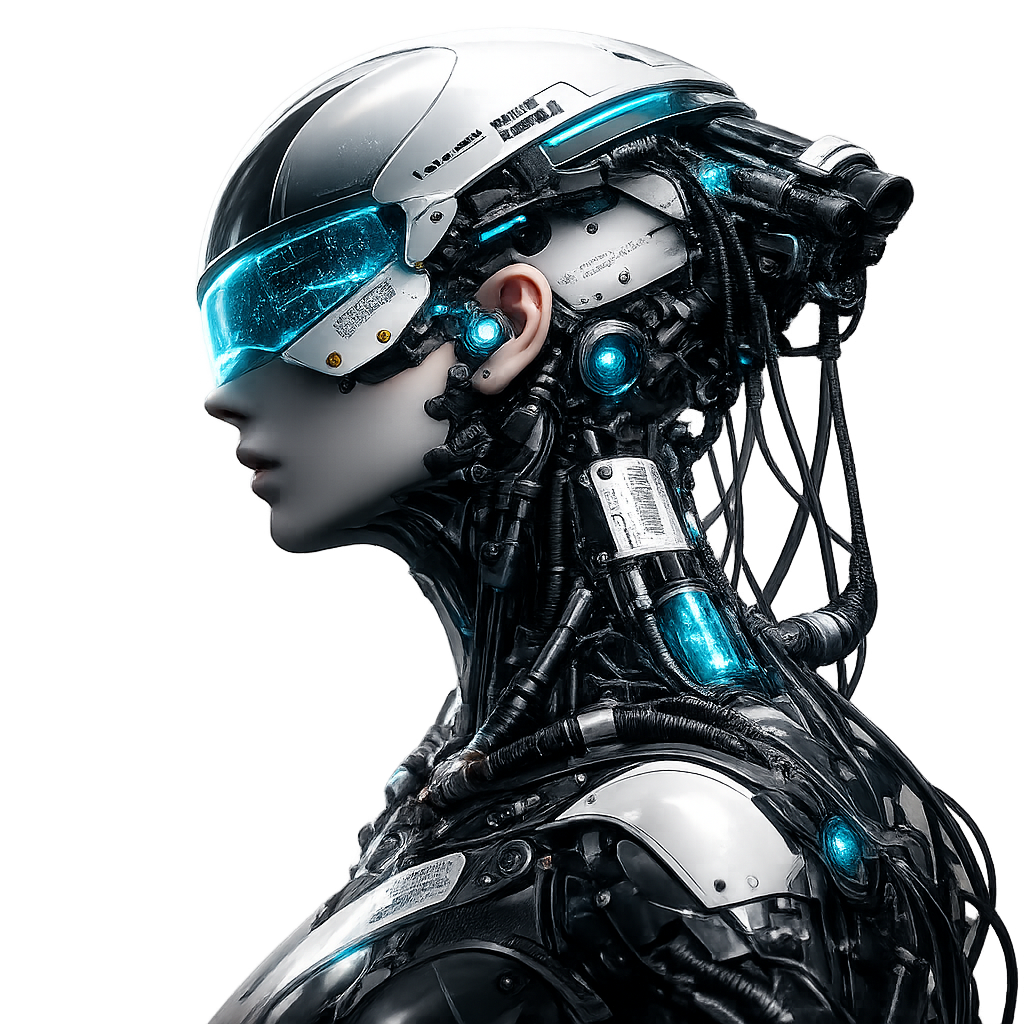
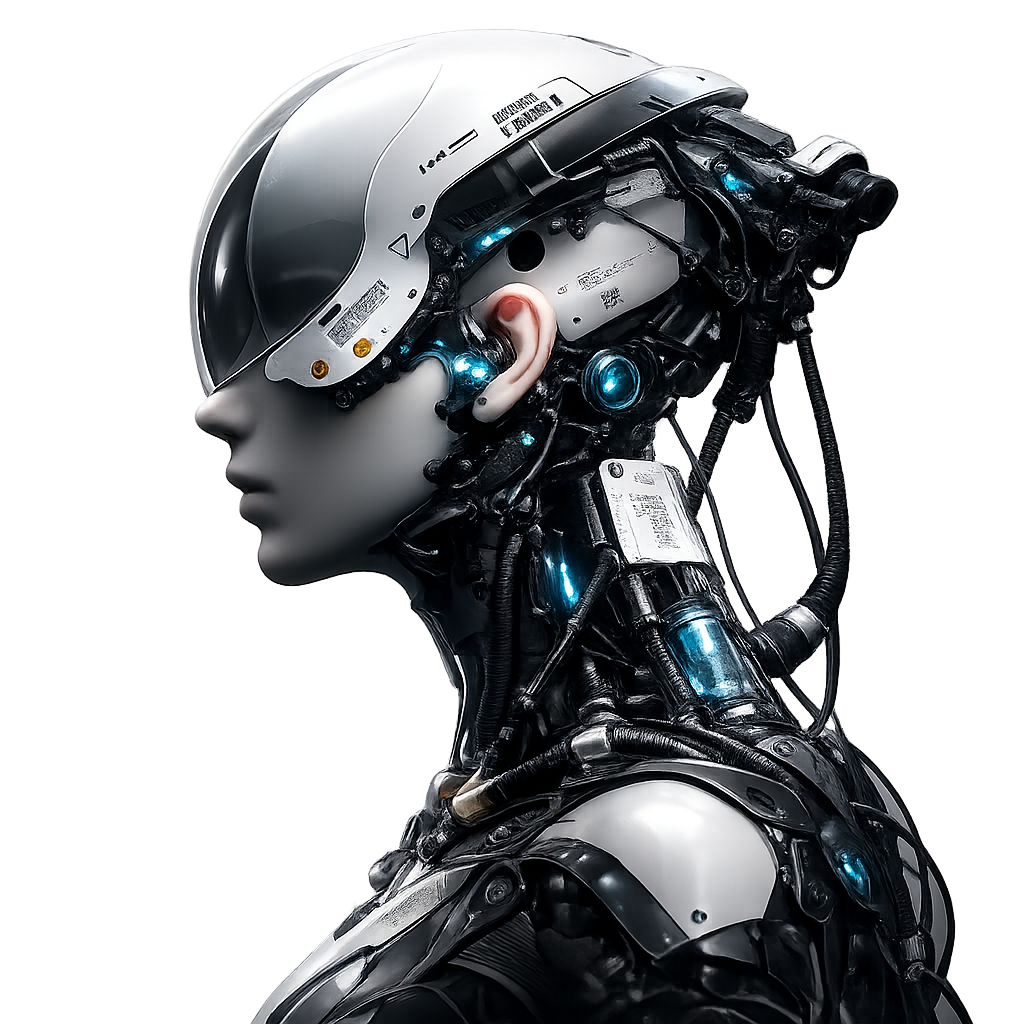
Update hero section animations, links, and various frontend tweaks

diff --git a/src/app/programs/[id]/ProgramDetailsClient.tsx b/src/app/programs/[id]/ProgramDetailsClient.tsx
@@ -1,7 +1,7 @@
 "use client";
 
 import { motion } from "framer-motion";
-import { ArrowLeft, Calendar, PlaySquare, CheckCircle2, Trophy, Clock, Check } from "lucide-react";
+import { ArrowLeft, Calendar, PlaySquare, CheckCircle2, Trophy, Clock, Check, AlertCircle, X } from "lucide-react";
 import { Button } from "@/components/ui/button";
 import { Badge } from "@/components/ui/badge";
 import Link from "next/link";
@@ -17,8 +17,10 @@ interface ProgramDetailsClientProps {
 export function ProgramDetailsClient({ program }: ProgramDetailsClientProps) {
   const router = useRouter();
   const [isEnrolled, setIsEnrolled] = useState(false);
+  const [enrolledProgramId, setEnrolledProgramId] = useState<string | null>(null);
+  const [showAlreadyEnrolledModal, setShowAlreadyEnrolledModal] = useState(false);
 
-  // Check if student is already enrolled in this internship
+  // Check if student is already enrolled in this internship or any other
   useEffect(() => {
     async function checkEnrollment() {
       const supabase = createClient();
@@ -26,11 +28,17 @@ export function ProgramDetailsClient({ program }: ProgramDetailsClientProps) {
       if (!user) return;
       const { data } = await supabase
         .from("student_enrollments")
-        .select("id")
+        .select("internship_id")
         .eq("student_id", user.id)
-        .eq("internship_id", program.id)
+        .limit(1)
         .single();
-      if (data) setIsEnrolled(true);
+        
+      if (data) {
+        setEnrolledProgramId(data.internship_id);
+        if (data.internship_id === program.id) {
+          setIsEnrolled(true);
+        }
+      }
     }
     checkEnrollment();
   }, [program.id]);
@@ -38,6 +46,11 @@ export function ProgramDetailsClient({ program }: ProgramDetailsClientProps) {
   const handleEnroll = async () => {
     if (isEnrolled) {
       router.push("/student/courses");
+      return;
+    }
+
+    if (enrolledProgramId && enrolledProgramId !== program.id) {
+      setShowAlreadyEnrolledModal(true);
       return;
     }
 
@@ -256,6 +269,52 @@ export function ProgramDetailsClient({ program }: ProgramDetailsClientProps) {
 
         </div>
       </div>
+
+      {/* Already Enrolled Modal */}
+      {showAlreadyEnrolledModal && (
+        <div className="fixed inset-0 z-50 flex items-center justify-center p-4 bg-background/80 backdrop-blur-md">
+          <motion.div 
+            initial={{ opacity: 0, scale: 0.95, y: 20 }}
+            animate={{ opacity: 1, scale: 1, y: 0 }}
+            exit={{ opacity: 0, scale: 0.95, y: 20 }}
+            className="relative w-full max-w-md overflow-hidden bg-card border border-border shadow-2xl rounded-3xl"
+          >
+            <div className="absolute top-0 left-0 w-full h-2 bg-gradient-to-r from-amber-500 to-orange-500" />
+            <button 
+              onClick={() => setShowAlreadyEnrolledModal(false)}
+              className="absolute top-4 right-4 p-2 text-muted-foreground hover:text-foreground hover:bg-muted rounded-full transition-colors"
+            >
+              <X className="w-5 h-5" />
+            </button>
+            <div className="p-8 pt-10 flex flex-col items-center text-center space-y-6">
+              <div className="w-16 h-16 bg-amber-500/10 rounded-full flex items-center justify-center border border-amber-500/20">
+                <AlertCircle className="w-8 h-8 text-amber-500" />
+              </div>
+              <div className="space-y-2">
+                <h3 className="text-2xl font-bold font-heading text-foreground">Active Enrollment Detected</h3>
+                <p className="text-muted-foreground leading-relaxed">
+                  You are already enrolled in an internship program. To maintain quality and focus, you can only participate in one program at a time.
+                </p>
+              </div>
+              <div className="flex flex-col w-full gap-3 pt-4">
+                <Button 
+                  onClick={() => router.push('/student')}
+                  className="w-full bg-primary hover:bg-primary/90 text-primary-foreground h-12 rounded-xl font-semibold"
+                >
+                  Go to My Dashboard
+                </Button>
+                <Button 
+                  variant="outline"
+                  onClick={() => setShowAlreadyEnrolledModal(false)}
+                  className="w-full h-12 rounded-xl font-semibold"
+                >
+                  Close
+                </Button>
+              </div>
+            </div>
+          </motion.div>
+        </div>
+      )}
     </div>
   );
 }

diff --git a/src/app/student/courses/page.tsx b/src/app/student/courses/page.tsx
@@ -5,7 +5,8 @@ import { Card, CardContent, CardDescription, CardHeader, CardTitle, CardFooter }
 import { Progress } from "@/components/ui/progress";
 import { Badge } from "@/components/ui/badge";
 import { Button } from "@/components/ui/button";
-import { PlayCircle, Clock, ChevronRight, HelpCircle, Award, Calendar, Layers, ArrowLeft, PlusCircleIcon, ListTodo, FileText } from "lucide-react";
+import { PlayCircle, Clock, ChevronRight, HelpCircle, Award, Calendar, Layers, ArrowLeft, PlusCircleIcon, ListTodo, FileText, AlertCircle, X } from "lucide-react";
+import { motion, AnimatePresence } from "framer-motion";
 import { createClient } from "@/lib/supabase/client";
 import { toast } from "sonner";
 import { useRouter } from "next/navigation";
@@ -27,6 +28,7 @@ export default function CoursesPage() {
   const [availablePrograms, setAvailablePrograms] = useState<any[]>([]);
   const [enrolledIds, setEnrolledIds] = useState<string[]>([]);
   const [showEnrollmentCenter, setShowEnrollmentCenter] = useState(false);
+  const [showAlreadyEnrolledModal, setShowAlreadyEnrolledModal] = useState(false);
 
   const audioCtxRef = useRef<AudioContext | null>(null);
 
@@ -138,6 +140,11 @@ export default function CoursesPage() {
       const { data: { user } } = await supabase.auth.getUser();
       if (!user) {
         toast.error("Please login first.");
+        return;
+      }
+
+      if (enrolledIds.length >= 1) {
+        setShowAlreadyEnrolledModal(true);
         return;
       }
 
@@ -318,6 +325,48 @@ export default function CoursesPage() {
           ))}
         </div>
       )}
+
+      {/* Already Enrolled Modal */}
+      <AnimatePresence>
+        {showAlreadyEnrolledModal && (
+          <div className="fixed inset-0 z-50 flex items-center justify-center p-4 bg-background/80 backdrop-blur-md">
+            <motion.div 
+              initial={{ opacity: 0, scale: 0.95, y: 20 }}
+              animate={{ opacity: 1, scale: 1, y: 0 }}
+              exit={{ opacity: 0, scale: 0.95, y: 20 }}
+              className="relative w-full max-w-md overflow-hidden bg-card border border-border shadow-2xl rounded-3xl"
+            >
+              <div className="absolute top-0 left-0 w-full h-2 bg-gradient-to-r from-amber-500 to-orange-500" />
+              <button 
+                onClick={() => setShowAlreadyEnrolledModal(false)}
+                className="absolute top-4 right-4 p-2 text-muted-foreground hover:text-foreground hover:bg-muted rounded-full transition-colors"
+              >
+                <X className="w-5 h-5" />
+              </button>
+              <div className="p-8 pt-10 flex flex-col items-center text-center space-y-6">
+                <div className="w-16 h-16 bg-amber-500/10 rounded-full flex items-center justify-center border border-amber-500/20">
+                  <AlertCircle className="w-8 h-8 text-amber-500" />
+                </div>
+                <div className="space-y-2">
+                  <h3 className="text-2xl font-bold font-heading text-foreground">Active Enrollment Detected</h3>
+                  <p className="text-muted-foreground leading-relaxed">
+                    You are already enrolled in an internship program. To maintain quality and focus, you can only participate in one program at a time.
+                  </p>
+                </div>
+                <div className="flex flex-col w-full gap-3 pt-4">
+                  <Button 
+                    variant="outline"
+                    onClick={() => setShowAlreadyEnrolledModal(false)}
+                    className="w-full h-12 rounded-xl font-semibold"
+                  >
+                    Close
+                  </Button>
+                </div>
+              </div>
+            </motion.div>
+          </div>
+        )}
+      </AnimatePresence>
     </div>
   );
 }

diff --git a/src/components/landing/ContactSection.tsx b/src/components/landing/ContactSection.tsx
@@ -4,6 +4,7 @@ import { useState } from "react";
 import { Mail, Phone, MapPin, Send } from "lucide-react";
 import { toast } from "sonner";
 import { createClient } from "@/lib/supabase/client";
+import Image from "next/image";
 
 export function ContactSection() {
   const [loading, setLoading] = useState(false);
@@ -39,17 +40,43 @@ export function ContactSection() {
     <section id="contact" className="py-24 relative bg-[#F2F2F2] border-t border-[#DCDCDC]">
       <div className="max-w-[1400px] mx-auto px-8 md:px-16">
         
-        <div className="text-center max-w-3xl mx-auto mb-16">
-          <div className="inline-flex items-center gap-2 px-4 py-2 rounded-full bg-[#E8E8E8] border border-[#DCDCDC] mb-6">
-            <span className="w-2 h-2 rounded-full bg-[#111] animate-pulse" />
-            <span className="text-sm font-semibold text-[#111] uppercase tracking-widest">Get In Touch</span>
+        {/* Header with Creative Spinning Image */}
+        <div className="flex flex-col lg:flex-row items-center justify-between gap-12 max-w-6xl mx-auto mb-20 relative z-10">
+          <div className="flex-1 text-center lg:text-left">
+            <div className="inline-flex items-center gap-2 px-4 py-2 rounded-full bg-[#E8E8E8] border border-[#DCDCDC] mb-6">
+              <span className="w-2 h-2 rounded-full bg-[#111] animate-pulse" />
+              <span className="text-sm font-semibold text-[#111] uppercase tracking-widest">Get In Touch</span>
+            </div>
+            <h2 className="text-5xl md:text-6xl font-heading font-extrabold mb-6 text-foreground leading-[1.1] tracking-tight">
+              Let's build something <br className="hidden lg:block"/>
+              <span className="text-[#111] relative inline-block">
+                extraordinary.
+                <svg className="absolute -bottom-2 left-0 w-full text-[#DCDCDC] -z-10" viewBox="0 0 100 10" preserveAspectRatio="none">
+                  <path d="M0 5 Q 50 10 100 5" stroke="currentColor" strokeWidth="4" fill="transparent"/>
+                </svg>
+              </span>
+            </h2>
+            <p className="text-muted-foreground text-lg max-w-xl mx-auto lg:mx-0 leading-relaxed">
+              Partner with our elite engineering team. Whether you have a visionary project in mind or need robust enterprise solutions, we are ready to deliver.
+            </p>
           </div>
-          <h2 className="text-4xl md:text-5xl font-heading font-bold mb-6 text-foreground">
-            Let's build something <span className="text-primary">extraordinary.</span>
-          </h2>
-          <p className="text-muted-foreground text-lg">
-            Have a project in mind or want to learn more about our internship programs? We're here to help.
-          </p>
+
+          <div className="relative w-64 h-64 md:w-80 md:h-80 shrink-0">
+            {/* Background Glow */}
+            <div className="absolute inset-0 bg-gray-200 rounded-full blur-3xl transform scale-150 -z-10 opacity-60" />
+            
+            {/* Spinning Image */}
+            <Image 
+              src="/contactus1.png" 
+              alt="Contact Quantim Labz" 
+              fill 
+              className="object-contain"
+              style={{ animation: 'spin 20s linear infinite' }}
+              priority
+            />
+            
+
+          </div>
         </div>
 
         <div className="grid lg:grid-cols-5 gap-12 max-w-6xl mx-auto">

diff --git a/src/components/landing/Hero.tsx b/src/components/landing/Hero.tsx
@@ -8,6 +8,7 @@ import { Eye, ArrowRight, MousePointer } from "lucide-react";
 
 export function Hero() {
   const [currentImageIndex, setCurrentImageIndex] = useState(0);
+  const [isImageLoading, setIsImageLoading] = useState(false);
   const images = ["/hh1.png", "/hh2.png", "/hh3.png", "/hh4.png", "/hh5.png"];
 
   return (
@@ -71,7 +72,7 @@ export function Hero() {
           className="mt-8 flex items-center gap-6"
         >
           <Link
-            href="/login"
+            href="/contact"
             className="inline-flex items-center px-6 py-3 bg-[#111] text-white text-sm font-medium rounded-full hover:bg-black transition-colors"
           >
             Get Started
@@ -97,24 +98,38 @@ export function Hero() {
             Quantim<br />Labs
           </div>
 
-          <AnimatePresence mode="wait">
+          <AnimatePresence>
             <motion.div
               key={currentImageIndex}
-              initial={{ opacity: 0, x: 20 }}
-              animate={{ opacity: 1, x: 0 }}
-              exit={{ opacity: 0, x: -20 }}
-              transition={{ duration: 0.5 }}
+              initial={{ opacity: 0 }}
+              animate={{ opacity: 1 }}
+              exit={{ opacity: 0 }}
+              transition={{ duration: 0.8, ease: "easeInOut" }}
               className="absolute inset-0"
             >
               <Image
                 src={images[currentImageIndex]}
                 alt="AI Robot"
                 fill
-                className="object-contain object-right-bottom"
+                className={`object-contain object-right-bottom transition-all duration-[1200ms] ease-in-out ${
+                  isImageLoading ? 'blur-xl grayscale opacity-40 scale-[0.98]' : 'blur-0 grayscale-0 opacity-100 scale-100'
+                }`}
                 priority
                 sizes="55vw"
               />
             </motion.div>
+          </AnimatePresence>
+
+          <AnimatePresence>
+            {isImageLoading && (
+              <motion.div
+                initial={{ opacity: 0 }}
+                animate={{ opacity: 1 }}
+                exit={{ opacity: 0 }}
+                transition={{ duration: 0.8, ease: "easeInOut" }}
+                className="absolute inset-0 z-10 water-dots-bg animate-water-wave mix-blend-overlay pointer-events-none"
+              />
+            )}
           </AnimatePresence>
 
         </motion.div>
@@ -127,7 +142,15 @@ export function Hero() {
           {images.map((_, i) => (
             <button
               key={i}
-              onClick={() => setCurrentImageIndex(i)}
+              onClick={() => {
+                if (currentImageIndex !== i) {
+                  setIsImageLoading(true);
+                  setCurrentImageIndex(i);
+                  setTimeout(() => {
+                    setIsImageLoading(false);
+                  }, 1200);
+                }
+              }}
               className={`rounded-full transition-all cursor-pointer hover:scale-125 hover:bg-gray-400 ${currentImageIndex === i ? "w-2.5 h-2.5 bg-[#111]" : "w-1.5 h-1.5 bg-gray-300"
                 }`}
               aria-label={`View image ${i + 1}`}

diff --git a/src/app/globals.css b/src/app/globals.css
@@ -160,4 +160,30 @@
   .animate-cursor-blink {
     animation: cursor-blink 1s step-end infinite;
   }
+
+  @keyframes water-wave {
+    0% {
+      background-position: 0% 0%;
+      transform: scale(1) translate(0, 0);
+    }
+    33% {
+      background-position: 50% 100%;
+      transform: scale(1.02) translate(-1%, 1%);
+    }
+    66% {
+      background-position: 100% 50%;
+      transform: scale(0.98) translate(1%, -1%);
+    }
+    100% {
+      background-position: 0% 0%;
+      transform: scale(1) translate(0, 0);
+    }
+  }
+  .animate-water-wave {
+    animation: water-wave 6s ease-in-out infinite;
+  }
+  .water-dots-bg {
+    background-image: radial-gradient(circle, #888 1.5px, transparent 1.5px);
+    background-size: 24px 24px;
+  }
 }

diff --git a/src/app/login/page.tsx b/src/app/login/page.tsx
@@ -43,10 +43,20 @@ export default function LoginPage() {
   return (
     <div className="min-h-screen flex bg-white overflow-hidden">
       {/* Left side: Brand/Visuals (hidden on mobile) */}
-      <div className="hidden lg:flex lg:w-1/2 relative bg-slate-900 items-center justify-center p-12 overflow-hidden">
-        {/* Background glow effects */}
-        <div className="absolute top-[-20%] left-[-10%] w-[70%] h-[70%] bg-blue-600/30 blur-[120px] rounded-full pointer-events-none" />
-        <div className="absolute bottom-[-20%] right-[-10%] w-[60%] h-[60%] bg-indigo-600/30 blur-[120px] rounded-full pointer-events-none" />
+      <div className="hidden lg:flex lg:w-1/2 relative items-center justify-center p-12 overflow-hidden">
+        {/* Creative Background Image */}
+        <div className="absolute inset-0 z-0">
+          <Image 
+            src="/login.png" 
+            alt="Login Background" 
+            fill
+            className="object-cover animate-pulse-slow"
+            style={{ animationDuration: '15s', animationTimingFunction: 'ease-in-out', animationIterationCount: 'infinite', animationDirection: 'alternate' }}
+            priority
+          />
+          <div className="absolute inset-0 bg-slate-900/60 mix-blend-multiply" />
+          <div className="absolute inset-0 bg-gradient-to-t from-slate-900/90 via-slate-900/40 to-transparent" />
+        </div>
         
         {/* Content */}
         <div className="relative z-10 w-full max-w-lg">
@@ -67,11 +77,7 @@ export default function LoginPage() {
             </div>
           </Link>
 
-          <div className="inline-flex items-center gap-2 px-4 py-2 rounded-full bg-white/5 border border-white/10 backdrop-blur-md mb-8">
-            <span className="w-2 h-2 rounded-full bg-blue-400 animate-pulse" />
-            <span className="text-sm font-medium text-slate-300 uppercase tracking-widest">Platform Access</span>
-          </div>
-          
+
           <h1 className="text-5xl lg:text-6xl font-heading font-extrabold text-white mb-6 leading-[1.1] tracking-tight">
             Accelerate Your <br />
             <span className="text-transparent bg-clip-text bg-gradient-to-r from-blue-400 to-indigo-400">Tech Career.</span>